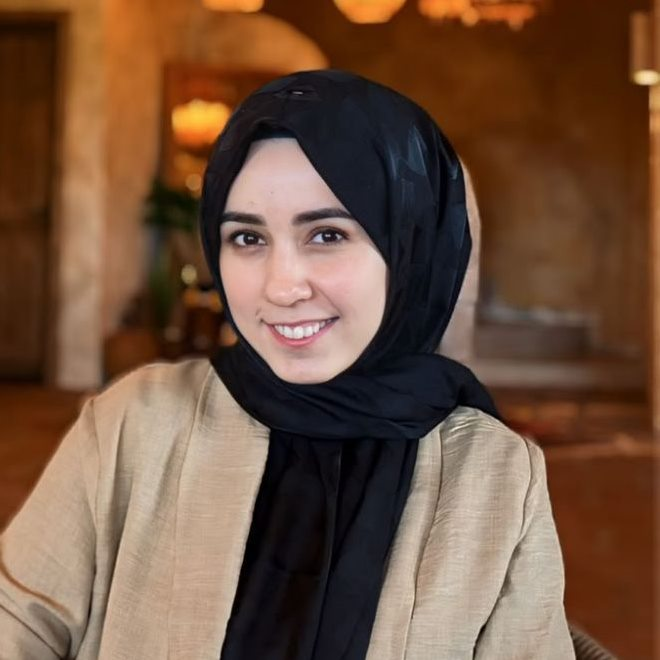
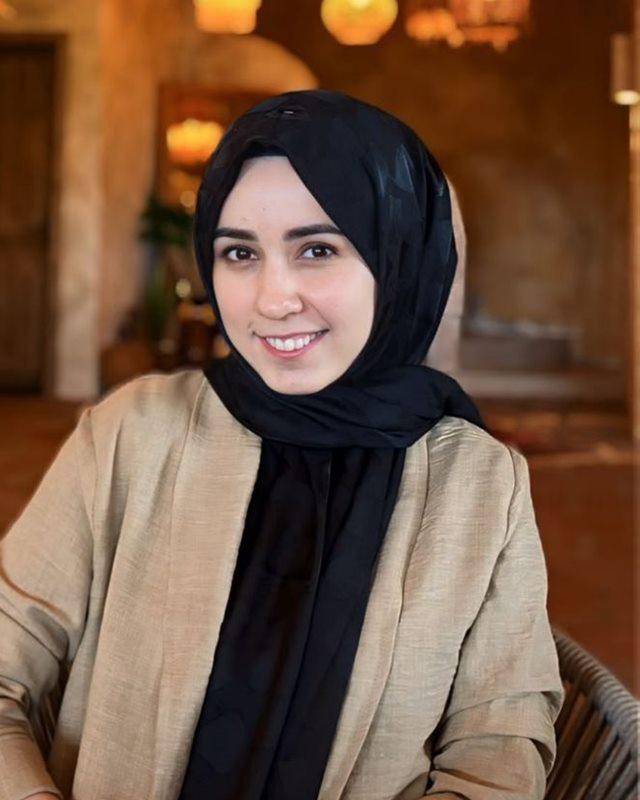
Koç kartları dikey fotoğraflı düzene geçti
- Fotoğraf çerçevesi 4:3 yataydan 4:5 dikeye alındı; telefonla çekilen
  portreler bu orana kendiliğinden oturuyor, baş/çene kesilmiyor
- Fotoğraf kartın kenarına kadar uzanıyor (iç boşluk kaldırıldı),
  isim ve bilgiler altında
- Üzerine gelince fotoğraf hafifçe yakınlaşıyor
- Koç detay sayfasındaki fotoğraf da 4:5'e alındı
- Şaban Arıcı ve Kevser Kara fotoğrafları kaynak görsellerden 4:5
  olarak yeniden kırpıldı (640x800)

diff --git a/components/KocKarti.tsx b/components/KocKarti.tsx
@@ -1,17 +1,38 @@
 import { Avatar } from "@/components/Avatar";
 import { Kart } from "@/components/Kart";
 import { kocBasligi, type Koc } from "@/data/koclar";
+import { cn } from "@/lib/utils";
 
-/** Koc liste karti. Fiyat burada gosterilmez, yalnizca detay sayfasinda. */
+/**
+ * Koc liste karti. Fotograf dikey (4:5) ve kenardan kenara: telefonla cekilen
+ * portreler bu orana kendiliginden oturuyor. Fiyat burada gosterilmez.
+ */
 export function KocKarti({ koc }: { koc: Koc }) {
+  const ayrinti = [koc.universite, koc.alan].filter(Boolean);
+
   return (
-    <Kart href={`/koclarimiz/${koc.slug}`} className="bg-white">
-      <Avatar foto={koc.foto} ad={koc.ad} className="aspect-[4/3] w-full" />
-      <h3 className="mt-3 text-sm font-bold leading-snug text-navy">{kocBasligi(koc)}</h3>
-      {koc.universite ? (
-        <p className="mt-1 text-xs leading-relaxed text-gray-text">{koc.universite}</p>
-      ) : null}
-      {koc.alan ? <p className="text-xs leading-relaxed text-gray-text">{koc.alan}</p> : null}
+    <Kart
+      href={`/koclarimiz/${koc.slug}`}
+      className={cn(
+        "overflow-hidden bg-white p-0 md:p-0",
+        // Uzerine gelince fotograf hafifce yakinlasir
+        "[&_img]:transition-transform [&_img]:duration-300 hover:[&_img]:scale-[1.03]"
+      )}
+    >
+      <Avatar
+        foto={koc.foto}
+        ad={koc.ad}
+        className="aspect-[4/5] w-full rounded-none"
+        ikonClassName="h-10 w-10"
+      />
+      <div className="p-3.5 md:p-4">
+        <h3 className="text-sm font-bold leading-snug text-navy md:text-[15px]">{kocBasligi(koc)}</h3>
+        {ayrinti.map((satir) => (
+          <p key={satir} className="mt-0.5 text-xs leading-relaxed text-gray-text">
+            {satir}
+          </p>
+        ))}
+      </div>
     </Kart>
   );
 }

diff --git a/app/koclarimiz/[slug]/page.tsx b/app/koclarimiz/[slug]/page.tsx
@@ -44,7 +44,7 @@ export default async function KocDetaySayfasi({ params }: Props) {
         <Avatar
           foto={koc.foto}
           ad={koc.ad}
-          className="aspect-[4/3] w-full md:aspect-square"
+          className="mx-auto aspect-[4/5] w-full max-w-sm md:mx-0"
           ikonClassName="h-14 w-14"
         />
 
